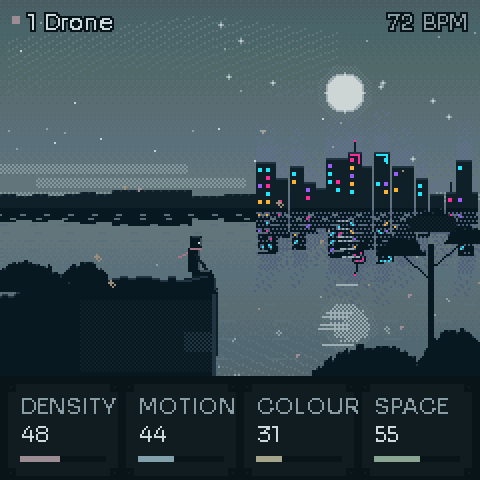
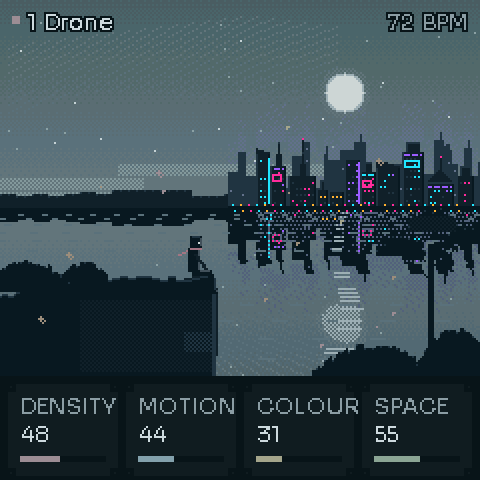
City: three depths, varied roofs (stepped, spire, gable, slanted, tanks), one-pixel windows, lit floors, neon edges and signs, a quay of lamps
Claude-Session: https://claude.ai/code/session_01KPTNcDAdEuj1gFdFWEe3Qh

diff --git a/firmware/src/sk_scene.c b/firmware/src/sk_scene.c
@@ -280,50 +280,154 @@ static void sc_shore(void)
     }
 }
 
-/* the city on the far shore: dark towers with neon windows, a few signs, a blinking mast, and a faint glow above it.
- * Voice 4 brings more windows on; DENSITY adds a few. The only vivid thing on the screen. */
+/* the city on the far shore, in three depths: a pale haze of far towers, the near skyline (stepped, spired, pitched and
+ * slanted roofs; one-pixel windows in rows; lit floors; neon edges, signs, rooftop tanks and masts; a beacon), and a
+ * quay of lamps along the water. Voice 4 lights more windows; DENSITY adds a few. Over it a faint glow. This is the only
+ * vivid part of the picture. */
+static int8_t sc_hmap[FB_W];
+
+static void sc_city_far(void)
+{
+    int x = SC_CX0 - 14, b = 0;
+    while (x < FB_W) {
+        uint32_t k = sc_hash((uint32_t)b * 4177u + 0x91u);
+        int w = 3 + (int)(k % 5u), h = 10 + (int)((k >> 6) % 26u), i;
+        if (x + w > FB_W)
+            w = FB_W - x;
+        for (i = 0; i < w; i++) {
+            int hh = h - ((k >> 14) % 3u == 0u && i == w - 1 ? 3 : 0);          /* a notch now and then */
+            fb_rect(x + i, SC_HZ - hh, 1, hh, C_F2);
+            if (hh > sc_hmap[x + i])
+                sc_hmap[x + i] = (int8_t)hh;
+        }
+        if ((k >> 18) % 4u == 0u)
+            fb_vline(x + w / 2, SC_HZ - h - 4, 4, C_F2);                         /* a far mast */
+        {
+            int wy;
+            for (wy = SC_HZ - h + 3; wy < SC_HZ - 3; wy += 3) {
+                uint32_t q = sc_hash((uint32_t)(x * 97 + wy * 13) + 0x3u);
+                if (q % 5u == 0u)
+                    fb_pset(x + 1 + (int)((q >> 8) % (uint32_t)(w > 2 ? w - 1 : 1)), wy, C_G0);          /* a window in the haze */
+            }
+        }
+        x += w - ((k >> 24) % 2u);
+        b++;
+    }
+}
+
+/* one near building at x, width w, height h; k its random word; col its main neon */
+static void sc_tower(int x, int w, int h, uint32_t k, uint8_t col, int lit, uint32_t now)
+{
+    int top = SC_HZ - h, type = (int)((k >> 4) % 6u), i, wy, wx, roof = top;
+    uint8_t col2 = (uint8_t)(C_N0 + ((k >> 9) & 3u));
+    /* the body, with a lit left edge and a dark right one */
+    fb_rect(x, top, w, h, C_F1);
+    fb_vline(x, top, h, C_F2);
+    fb_vline(x + w - 1, top, h, C_F0);
+    switch (type) {
+    case 1:                                                       /* stepped: a narrower upper tier */
+        fb_rect(x + 2, top - 5, w - 4, 5, C_F1);
+        fb_vline(x + 2, top - 5, 5, C_F2);
+        fb_hline(x + 2, top - 5, w - 4, C_F2);
+        roof = top - 5;
+        break;
+    case 2:                                                       /* pitched: a little gable */
+        for (i = 0; i < w / 2; i++)
+            fb_hline(x + i, top - 1 - i, w - 2 * i, i ? C_F1 : C_F2);
+        roof = top - w / 2;
+        break;
+    case 3:                                                       /* an art-deco spire */
+        fb_rect(x + w / 2 - 1, top - 6, 3, 6, C_F1);
+        fb_rect(x + w / 2, top - 11, 1, 5, C_F1);
+        fb_pset(x + w / 2, top - 12, C_F2);
+        roof = top - 12;
+        break;
+    case 4:                                                       /* a water tank on legs, and a vent */
+        fb_rect(x + 1, top - 3, 4, 3, C_F1);
+        fb_pset(x + 1, top - 4, C_F2);
+        fb_pset(x + 4, top - 4, C_F2);
+        fb_pset(x + w - 3, top - 1, C_F2);
+        roof = top - 4;
+        break;
+    case 5:                                                       /* a slanted roof */
+        for (i = 0; i < w; i++)
+            fb_vline(x + i, top - 1 - (w - 1 - i) / 3, 1 + (w - 1 - i) / 3, C_F1);
+        roof = top - 1 - (w - 1) / 3;
+        break;
+    default:
+        fb_hline(x, top, w, C_F2);                                 /* a flat roof with its parapet */
+        break;
+    }
+    for (i = 0; i < w; i++)
+        if (SC_HZ - roof > sc_hmap[x + i])
+            sc_hmap[x + i] = (int8_t)(SC_HZ - roof);
+    /* windows: one pixel, in rows of two columns' pitch; a few floors all lit, some dark panes in a faint tone */
+    for (wy = top + 3; wy < SC_HZ - 2; wy += 3) {
+        int floor_on = (int)(sc_hash((uint32_t)(wy * 31) + (k & 0xFFFFu)) % 9u) == 0;
+        for (wx = x + 2; wx < x + w - 1; wx += 2) {
+            uint32_t q = sc_hash((uint32_t)(wx * 131 + wy * 17) + 0x77u);
+            int on = floor_on || (int)(q % 100u) < lit;
+            if (!on && ((now >> 10) + (q >> 8)) % 113u == 0u)
+                on = 1;                                           /* a window now and then */
+            if (on)
+                fb_pset(wx, wy, ((q >> 14) & 7u) == 0u ? col2 : col);
+            else if ((q >> 20) % 3u == 0u)
+                fb_pset(wx, wy, C_F2);                            /* a dark pane */
+        }
+    }
+    if ((k >> 12) % 4u == 0u && h > 12) {                         /* a vertical neon edge */
+        fb_vline(x + w - 1, top + 2, h - 4, col);
+        if (x + w < FB_W)
+            for (wy = top + 2; wy < SC_HZ - 2; wy += 2)
+                if (fb[wy * FB_W + x + w] >= C_S0 && fb[wy * FB_W + x + w] <= C_S5)
+                    fb_pset(x + w, wy, C_G0);
+    }
+    if ((k >> 16) % 3u == 0u && w >= 7) {                         /* a sign: a bar in dashes and a small framed board */
+        int sy = top + 1;
+        for (i = 1; i < w - 1; i++)
+            if (((i + (int)(k >> 28)) & 3) != 3)
+                fb_pset(x + i, sy, col2);
+        if (h > 16) {
+            fb_hline(x + 1, sy + 3, w - 3, col);
+            fb_hline(x + 1, sy + 6, w - 3, col);
+            fb_vline(x + 1, sy + 3, 4, col);
+            fb_vline(x + w - 3, sy + 3, 4, col);
+        }
+    }
+    if ((k >> 20) % 5u == 0u) {                                   /* a mast with a blinking light */
+        int mx = x + w / 2;
+        fb_vline(mx, roof - 6, 6, C_F1);
+        if (((now >> 9) + (uint32_t)(k & 7u)) % 4u < 2u)
+            fb_pset(mx, roof - 7, C_N0);
+    }
+}
+
 static void sc_city(uint32_t now)
 {
-    int x = SC_CX0, e = sc_e[3], lit = 20 + (e * 30 >> 8) + (sk_s.mac[0] >> 4), b = 0;
-    static int8_t hmap[FB_W];
+    int x = SC_CX0, e = sc_e[3], lit = 20 + (e * 30 >> 8) + (sk_s.mac[0] >> 4), b = 0, i;
+    for (i = 0; i < FB_W; i++)
+        sc_hmap[i] = 0;
+    sc_city_far();
     while (x < FB_W - 2) {
         uint32_t k = sc_hash((uint32_t)b * 7919u + 0x31u);
-        int w = 5 + (int)(k % 7u), h = 7 + (int)((k >> 8) % 19u) + (x > 170 && x < 205 ? 6 : 0), i, wx, wy;
+        int w = 6 + (int)(k % 9u), h = 8 + (int)((k >> 8) % 20u) + (x > 170 && x < 205 ? 7 : 0);
         if (x + w > FB_W - 1)
             w = FB_W - 1 - x;
-        for (i = 0; i < w; i++)
-            hmap[x + i] = (int8_t)h;
-        fb_rect(x, SC_HZ - h, w, h, C_F1);
-        fb_hline(x, SC_HZ - h, w, C_F2);
-        for (wy = SC_HZ - h + 3; wy < SC_HZ - 3; wy += 4)
-            for (wx = x + 1; wx < x + w - 2; wx += 4) {
-                uint32_t q = sc_hash((uint32_t)(wx * 131 + wy * 17) + 0x77u);
-                int on = (int)(q % 100u) < lit;
-                if (!on && ((now >> 10) + (q >> 8)) % 97u == 0u)
-                    on = 1;                                   /* a window now and then */
-                if (on)
-                    fb_rect(wx, wy, 2, 2, (uint8_t)(C_N0 + ((q >> 12) & 3u)));
-            }
-        if ((k >> 20) % 3u == 0u && w > 6) {                  /* a neon sign */
-            uint8_t c = (uint8_t)(C_N0 + ((k >> 24) & 3u));
-            int sy = SC_HZ - h + 1;
-            fb_hline(x + 1, sy, w - 2, c);
-            if (h > 14)
-                fb_vline(x + w - 2, sy, 5, c);
-        }
-        if ((k >> 22) % 5u == 0u) {                           /* a mast with a blinking light */
-            fb_vline(x + w / 2, SC_HZ - h - 5, 5, C_F1);
-            if (((now >> 9) + (uint32_t)b) % 4u < 2u)
-                fb_pset(x + w / 2, SC_HZ - h - 6, C_N0);
-        }
+        if (w >= 4)
+            sc_tower(x, w, h, k, (uint8_t)(C_N0 + ((k >> 24) & 3u)), lit, now);
         x += w + (int)((k >> 16) % 2u);
         b++;
     }
+    /* the quay: a low wall with a row of lamps, and a few lit boats' lights */
+    fb_hline(SC_CX0 - 14, SC_HZ - 1, FB_W - SC_CX0 + 14, C_F0);
+    for (x = SC_CX0 - 12; x < FB_W - 1; x += 4)
+        if (((x >> 2) + (int)(now >> 11)) % 11u != 0u)
+            fb_pset(x, SC_HZ - 2, (x >> 2) % 3u == 0u ? C_N3 : ((x >> 2) % 3u == 1u ? C_N0 : C_N1));
     /* the glow: a faint dithered haze over the roofs, thicker over the tall ones, breathing very slowly */
     {
         int breathe = 2 + (sc_tri((int)(now >> 6)) >> 6);
-        for (x = SC_CX0; x < FB_W - 1; x++) {
-            int h = hmap[x], g = 6 + (h >> 2) + breathe + (e >> 6), i;
+        for (x = SC_CX0 - 14; x < FB_W - 1; x++) {
+            int h = sc_hmap[x], g = 6 + (h >> 2) + breathe + (e >> 6);
             for (i = 1; i <= g; i++) {
                 int y = SC_HZ - h - i;
                 if (y < 0)
